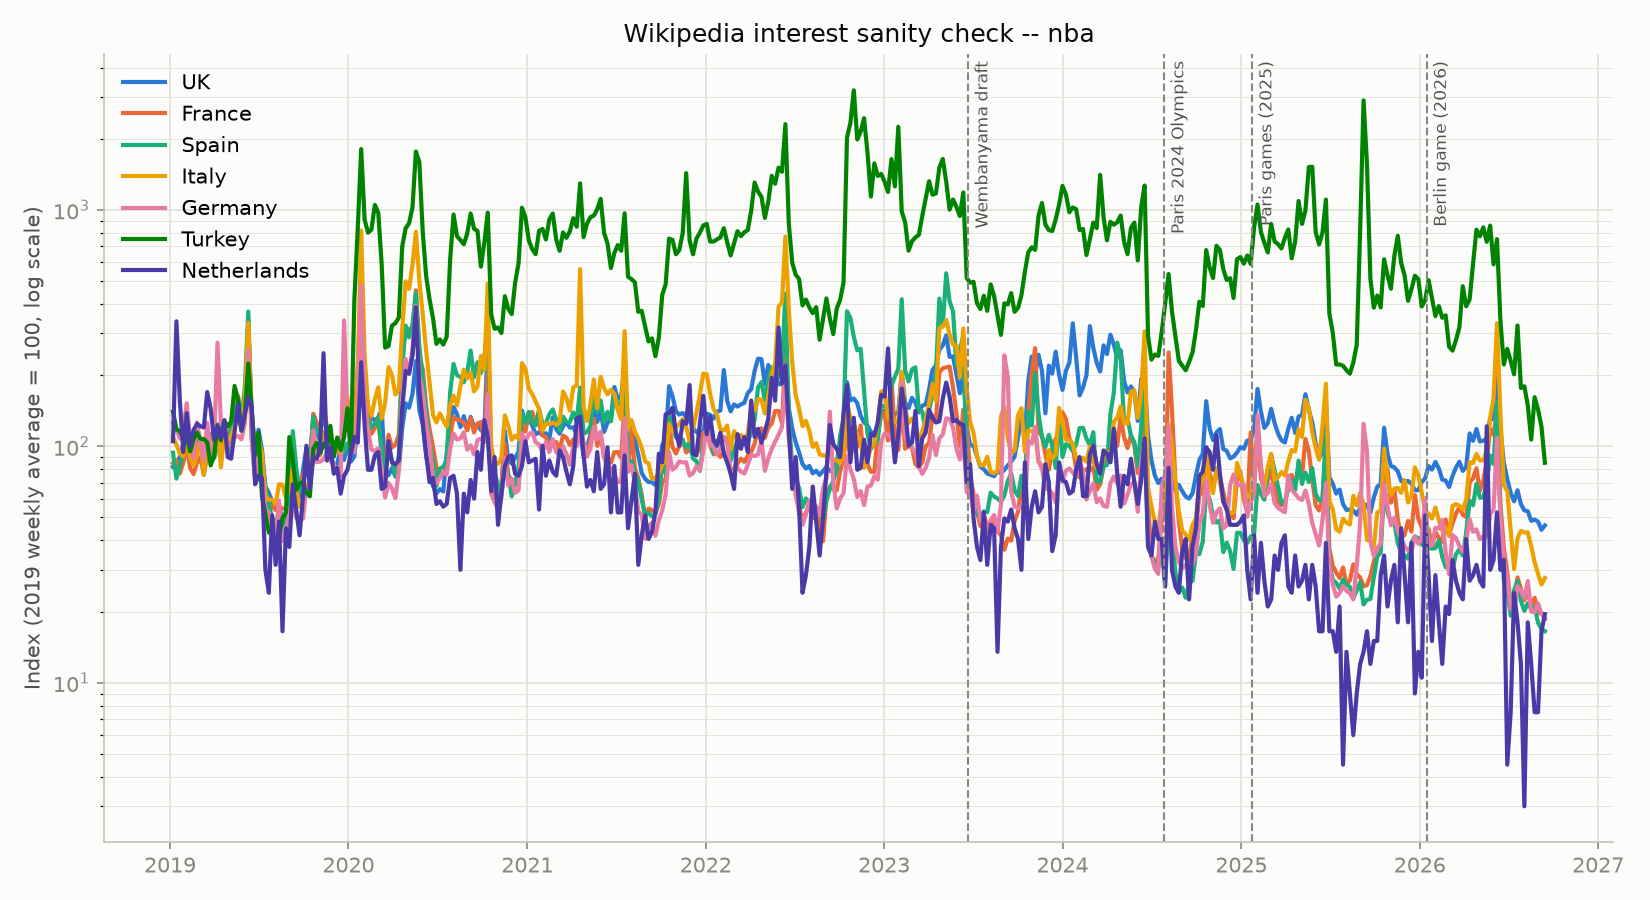
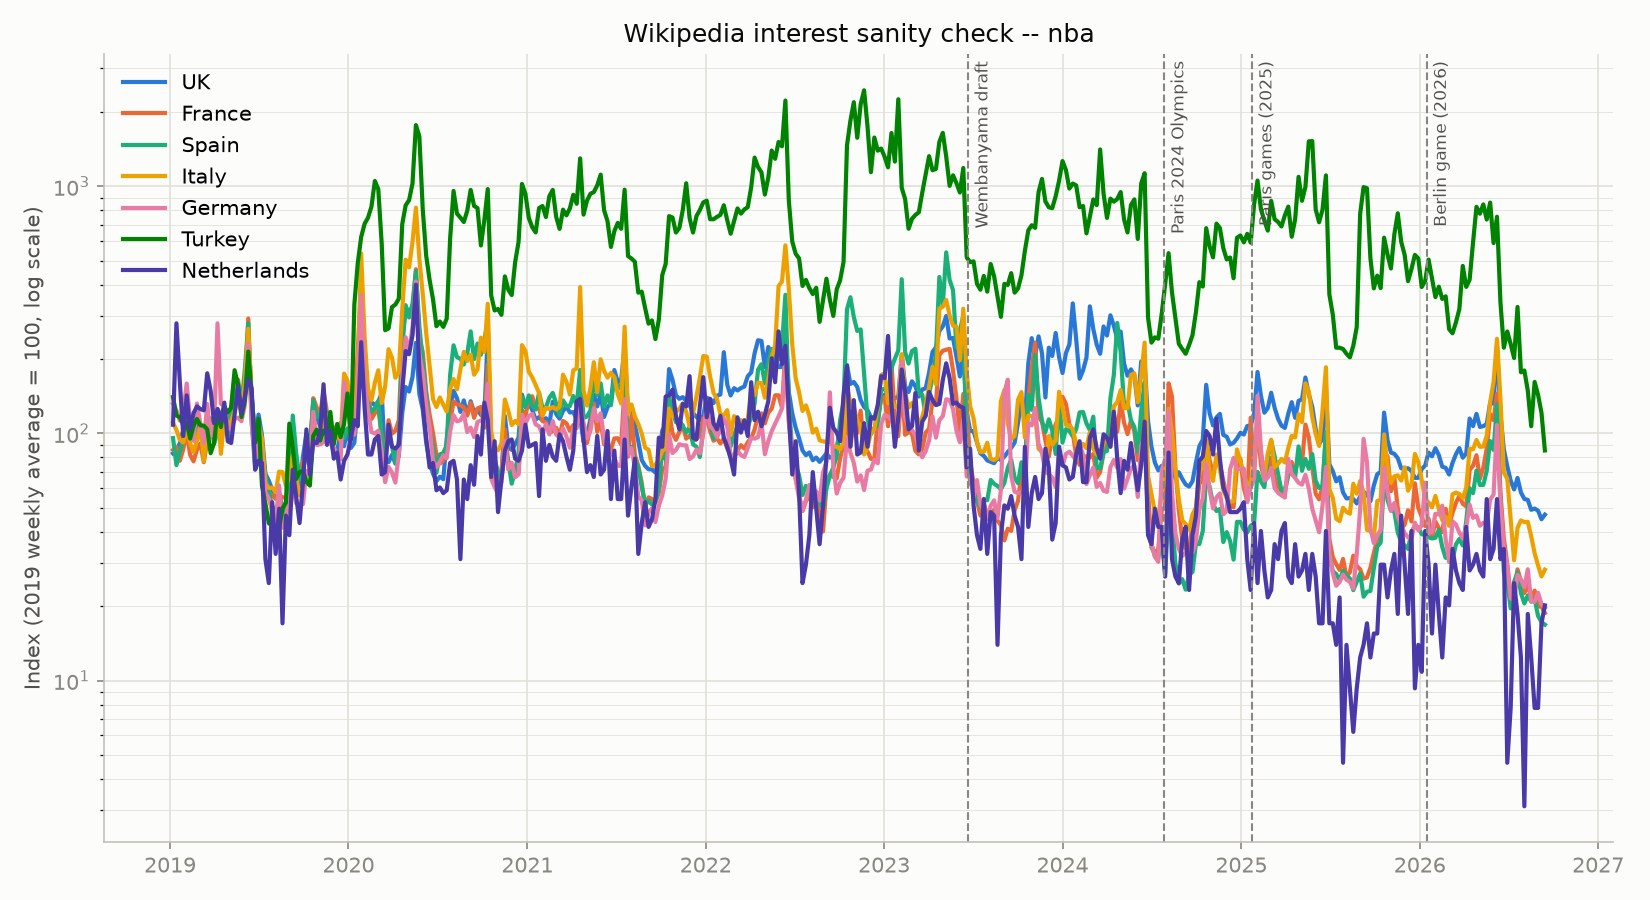
Winsorize single-day outliers, add control-market flag
Caps any day above 5x its trailing 8-week median (per series) at
that cap, logged to outputs/capped_days.csv. This targets isolated
single-day spikes like tr/basketball's 2020-11-14 (9,364 views vs.
~700 the surrounding days) without touching sustained multi-week
lifts, which stay under the cap. Also drops the now-stale hardcoded
peak-week dates in the Turkey diagnostic in favor of computing them
from the (now capped) data directly.

Added use_as_control, true only for nl/basketball -- nl/nba's 2019
median (63 views/wk) is too thin to be a stable control series.

Logged the capping decision, the narrowed control market, and the
national-team-success finding (DE 2023 World Cup, TR EuroBasket 2025,
FR Olympics 2024 all exceeding any single NBA event) to the decision
log.

Changed region(s): [[0.0309, 0.0933, 0.9891, 0.8089], [0.0309, 0.1867, 0.0618, 0.2489]]

diff --git a/src/process_interest.py b/src/process_interest.py
@@ -25,6 +25,11 @@ WEEKLY_PARQUET = PROCESSED_DIR / "weekly_interest.parquet"
 GAP_CLUSTER_THRESHOLD = 3
 GAP_REPORT_SERIES = [("it", "nba"), ("nl", "nba")]
 
+# Winsorize: cap a day above WINSORIZE_MULTIPLIER x its trailing median at that cap.
+WINSORIZE_MULTIPLIER = 5
+TRAILING_MEDIAN_WEEKS = 8
+CAPPED_DAYS_CSV = ROOT / "outputs" / "capped_days.csv"
+
 # Fixed categorical color order (validated palette, dataviz skill default),
 # assigned by language so each country keeps the same color across charts.
 COUNTRY_COLORS = {
@@ -128,6 +133,36 @@ def apply_gap_fill(daily: pd.DataFrame) -> pd.DataFrame:
     return daily
 
 
+def winsorize_daily(daily: pd.DataFrame) -> tuple[pd.DataFrame, pd.DataFrame]:
+    """Cap any day above WINSORIZE_MULTIPLIER x its trailing median (the preceding
+    TRAILING_MEDIAN_WEEKS*7 days, per series) at that cap. A day with no trailing
+    history yet, or a trailing median of 0, is left uncapped -- there's no baseline
+    to judge it against. Returns (daily_with_caps_applied, capped_days_log)."""
+    daily = daily.sort_values(["lang", "country", "topic", "day"]).reset_index(drop=True)
+    daily["views"] = daily["views"].astype("float64")
+    window_days = TRAILING_MEDIAN_WEEKS * 7
+    trailing_median = (
+        daily.groupby(["lang", "country", "topic"])["views"]
+        .apply(lambda s: s.rolling(window_days, min_periods=1).median().shift(1))
+        .reset_index(level=[0, 1, 2], drop=True)
+    )
+    cap = trailing_median * WINSORIZE_MULTIPLIER
+    exceeds = (daily["views"] > cap) & (cap > 0)
+
+    capped_log = pd.DataFrame(
+        {
+            "series": daily.loc[exceeds, "lang"] + "/" + daily.loc[exceeds, "topic"],
+            "date": daily.loc[exceeds, "day"],
+            "raw": daily.loc[exceeds, "views"],
+            "capped": cap[exceeds],
+        }
+    ).reset_index(drop=True)
+
+    daily = daily.copy()
+    daily.loc[exceeds, "views"] = cap[exceeds]
+    return daily, capped_log
+
+
 def report_gaps(daily: pd.DataFrame) -> list[str]:
     """Build the missing-date report lines for the flagged series."""
     lines = []
@@ -179,7 +214,8 @@ def build_weekly_indexed(con: duckdb.DuckDBPyConnection, daily: pd.DataFrame) ->
         )
         SELECT w.week_start, w.iso_year, w.iso_week, w.lang, w.country, w.topic, w.views,
                w.views / b.baseline_views * 100 AS "index",
-               (w.n_days < 7) AS incomplete
+               (w.n_days < 7) AS incomplete,
+               (w.lang = 'nl' AND w.topic = 'basketball') AS use_as_control
         FROM weekly_raw w
         JOIN baseline b USING (lang, country, topic)
         ORDER BY w.lang, w.topic, w.week_start
@@ -228,9 +264,6 @@ def plot_sanity_chart(weekly: pd.DataFrame, topic: str, out_path: Path) -> None:
     plt.close(fig)
 
 
-PEAK_WEEKS = [date(2020, 11, 9), date(2022, 10, 31)]
-
-
 def turkey_diagnostic(weekly: pd.DataFrame) -> list[str]:
     """2019 baseline stability check for tr (both topics), with nl as a small-market
     comparison, plus tr's raw weekly views at the two index peak weeks. Diagnostic
@@ -258,16 +291,16 @@ def turkey_diagnostic(weekly: pd.DataFrame) -> list[str]:
                 lines.append(f"  stability check: {verdict}")
 
     lines.append("")
-    lines.append("Turkey raw weekly views at the two index peak weeks:")
+    lines.append("Turkey raw weekly views at the current index peak week per topic:")
     for topic in ("basketball", "nba"):
-        for peak in PEAK_WEEKS:
-            row = weekly[
-                (weekly["lang"] == "tr")
-                & (weekly["topic"] == topic)
-                & (weekly["week_start"].dt.date == peak)
-            ]
-            if not row.empty:
-                lines.append(f"  tr/{topic} week of {peak}: views={row['views'].iloc[0]:.0f}")
+        tr_topic = weekly[(weekly["lang"] == "tr") & (weekly["topic"] == topic)]
+        if tr_topic.empty:
+            continue
+        peak = tr_topic.loc[tr_topic["index"].idxmax()]
+        lines.append(
+            f"  tr/{topic} week of {peak['week_start'].date()}: "
+            f"views={peak['views']:.0f}  index={peak['index']:.1f}"
+        )
     return lines
 
 
@@ -316,6 +349,8 @@ def main() -> None:
     daily = build_daily(con)
     gap_lines = report_gaps(daily)
     daily = apply_gap_fill(daily)
+    daily, capped_log = winsorize_daily(daily)
+    capped_log.to_csv(CAPPED_DAYS_CSV, index=False)
 
     weekly = build_weekly_indexed(con, daily)
     weekly.to_parquet(WEEKLY_PARQUET, index=False)
@@ -324,6 +359,11 @@ def main() -> None:
     plot_sanity_chart(weekly, "nba", CHARTS_DIR / "sanity_nba.png")
 
     print_summary(daily, weekly, gap_lines)
+    print("\n=== Winsorized days (capped at 5x trailing 8-week median) ===")
+    print(f"Total capped: {len(capped_log)}")
+    if len(capped_log):
+        for series, count in capped_log["series"].value_counts().sort_index().items():
+            print(f"  {series}: {count}")
     print("\n=== Turkey diagnostic ===")
     for line in turkey_diagnostic(weekly):
         print(line)

diff --git a/docs/decision_log.md b/docs/decision_log.md
@@ -11,3 +11,6 @@ Chronological record of key decisions made during this project, with rationale.
 | 2026-09-22 | Paris 2025 games flagged as confounded | Marketed as Wembanyama's homecoming |
 | 2026-09-22 | Jan 2020 flagged as confound | Kobe Bryant's death dominates that week in 5 of 7 markets |
 | 2026-09-22 | 3+ day data gaps left NULL, not zero-filled | Avoids inventing a dip (it/nba, July 2026) |
+| 2026-09-22 | Turkey kept; single-day outliers capped at 5x trailing median | 2020-11-14 spike was one isolated day; rest of tr data is stable (2019 median ~270/wk) |
+| 2026-09-22 | Control = nl/basketball only | nl/nba too small (median 63 views/wk) to be stable |
+| 2026-09-22 | National-team success is the largest observed shock | DE 2023 World Cup, TR EuroBasket 2025, FR Olympics 2024 all exceed any NBA event |
